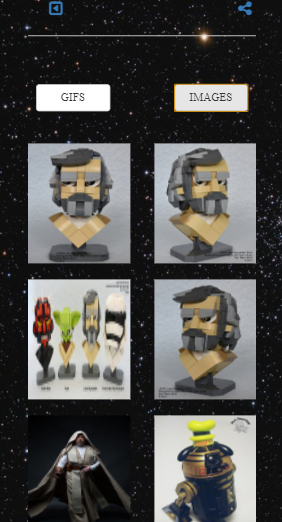
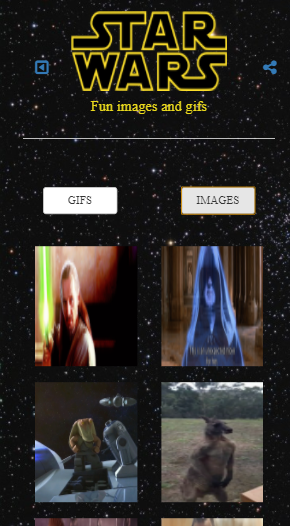
añadiendo vista-gif al readme

diff --git a/README.md b/README.md
@@ -49,7 +49,11 @@ ___
 
 ![StarwarsSplash](public/assets/images/readme/vista-img.png)
 
-4. Modal:
+4. Gifs:
+
+![StarwarsSplash](public/assets/images/readme/vista-gif.png)
+
+5. Modal:
 
 ![StarwarsSplash](public/assets/images/readme/vista-modal.png)
 
